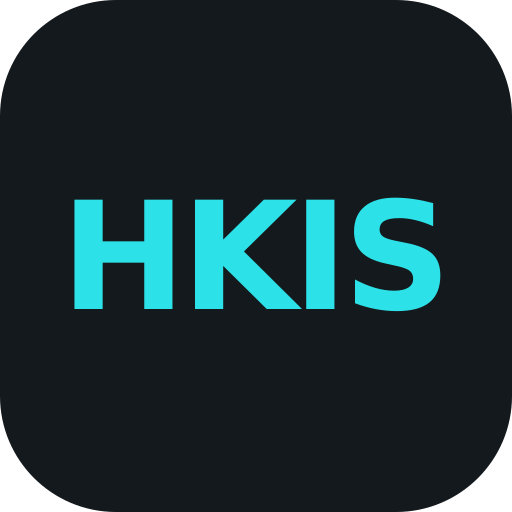
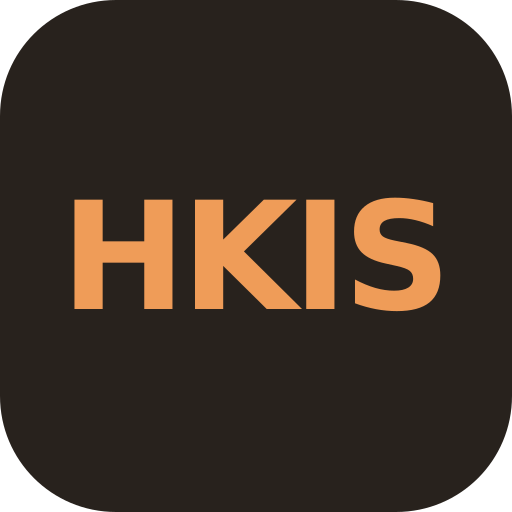
Refine HKIS warm paper theme and academic reading hierarchy

Changed region(s): [[0.375, 0.375, 0.6562, 0.625], [0.125, 0.375, 0.3438, 0.625], [0.6875, 0.375, 0.875, 0.625]]

diff --git a/apps/web/app/app.css b/apps/web/app/app.css
@@ -1,8 +1,8 @@
 @import "tailwindcss";
 
 /* ---------------------------------------------------------------------------
-   AIHOT design tokens — the look of the original site: warm off-white paper,
-   ink text, one teal accent (cyan in dark), hairline borders, no gradients.
+   HKIS reading tokens — warm paper, brown-black ink, and a burnt-orange accent.
+   Solid surface depth and warm charcoal dark mode; no decorative elevation.
    Components use the semantic names below; values change per theme only.
    --------------------------------------------------------------------------- */
 
@@ -11,14 +11,6 @@
 @theme {
   --font-sans: system-ui, -apple-system, BlinkMacSystemFont, "Segoe UI", "PingFang SC", "Hiragino Sans GB", "HarmonyOS Sans SC", "Microsoft YaHei", sans-serif;
   --font-mono: ui-monospace, SFMono-Regular, "SF Mono", Menlo, Monaco, Consolas, "Liberation Mono", monospace;
-
-  /* Brand (VI), fixed across themes. */
-  --color-brand-teal: #176b75;
-  --color-brand-cyan-0: #5deef0;
-  --color-brand-cyan-20: #2ce2e8;
-  --color-brand-cyan-54: #12ccd8;
-  --color-brand-cyan-82: #08abc2;
-  --color-brand-cyan-100: #078ea9;
 
   /* Semantic colours. */
   --color-bg: var(--bg);
@@ -95,39 +87,39 @@
   --page-max-wide: max(1200px, calc(270dvh - 236px));
   --page-max-reading: max(1100px, calc(200dvh - 236px));
   color-scheme: light;
-  --bg: #f2f4f0;
-  --bg-sunk: #edf1ec;
-  --bg-muted: #e5ebe6;
-  --surface: #ffffff;
-  --surface-2: #f6f8f4;
-  --raised: #ffffff;
-  --sidebar: #e7ede8;
-  --section: #e6eee8;
-  --inset: #f0f4ee;
-  --selected: #d6e8e3;
-  --daybar: #e6eee8;
-  --field: #ffffff;
-  --ink: #202a30;
-  --ink-2: #303c42;
-  --ink-3: #536168;
-  --ink-4: #59686e;
-  --line: #d5dfd8;
-  --line-strong: #d1d9d5;
-  --line-soft: #e3e9e3;
-  --accent: #176b75;
-  --accent-ink: #145f68;
-  --accent-soft: rgba(23, 107, 117, 0.08);
-  --accent-softer: rgba(23, 107, 117, 0.05);
+  --bg: #f7f1df;
+  --bg-sunk: #f0e7d0;
+  --bg-muted: #eee2cb;
+  --surface: #fffcf3;
+  --surface-2: #fbf5e6;
+  --raised: #fffdf6;
+  --sidebar: #eee4cc;
+  --section: #efe4c9;
+  --inset: #f4ecd9;
+  --selected: #f2ddc4;
+  --daybar: #efe4c9;
+  --field: #fffdf6;
+  --ink: #342b23;
+  --ink-2: #514439;
+  --ink-3: #6c5b4b;
+  --ink-4: #72604e;
+  --line: #ded0b5;
+  --line-strong: #c6b493;
+  --line-soft: #e8ddc6;
+  --accent: #a4470f;
+  --accent-ink: #913b0d;
+  --accent-soft: rgba(164, 71, 15, 0.09);
+  --accent-softer: rgba(164, 71, 15, 0.05);
   --accent-contrast: #ffffff;
-  --note: #526f72;
-  --hot: #b3402a;
-  --hot-soft: rgba(179, 64, 42, 0.08);
-  --amber: #b8873a;
-  --amber-ink: #7c5a24;
-  --amber-soft: rgba(184, 135, 58, 0.1);
-  --ok: #2f7d5c;
-  --ok-soft: rgba(47, 125, 92, 0.1);
-  --ok-ink: #2a6e51;
+  --note: #786245;
+  --hot: #ac343c;
+  --hot-soft: #fae8e3;
+  --amber: #9b7514;
+  --amber-ink: #86610a;
+  --amber-soft: #f4e7c2;
+  --ok: #387151;
+  --ok-soft: #e2eee3;
+  --ok-ink: #2d6547;
   /* Reset monitor: days mixed from the landed (green) and announced (amber) tones over the surface. */
   --cal-plain: rgba(28, 39, 51, 0.024);
   --cal-confirmed: color-mix(in srgb, var(--ok-ink) 12%, var(--surface));
@@ -135,68 +127,70 @@
   --cal-key-confirmed: color-mix(in srgb, var(--ok-ink) 30%, var(--surface));
   --cal-key-announced: color-mix(in srgb, var(--amber-ink) 30%, var(--surface));
   --panel-quiet: color-mix(in srgb, var(--bg) 48%, var(--surface));
-  --rank-1: #b3402a;
-  --rank-2: #a3642f;
-  --rank-3: #96702e;
-  --rank-rest: #6b7684;
+  --rank-1: #ac343c;
+  --rank-2: #946025;
+  --rank-3: #86610a;
+  --rank-rest: #72604e;
+  --control-line: #9b8a6b;
   --shadow-card: none;
   --shadow-card-hover: none;
   --shadow-soft: none;
   --shadow-thumb: none;
   --shadow-pop: none;
-  --prose-ink: #26323a;
-  --code-bg: #f6f7f4;
-  --selection: rgba(23, 107, 117, 0.16);
+  --prose-ink: #44372c;
+  --code-bg: #f0e7d0;
+  --selection: rgba(196, 104, 42, 0.22);
 }
 
 [data-theme="dark"] {
   color-scheme: dark;
-  --bg: #11191d;
-  --bg-sunk: #1e2c31;
-  --bg-muted: #27383d;
-  --surface: #1b282d;
-  --surface-2: #202e33;
-  --raised: #243339;
-  --sidebar: #162226;
-  --section: #26373c;
-  --inset: #202f34;
-  --selected: #21484d;
-  --daybar: #26373c;
-  --field: #142126;
-  --ink: #e7eceb;
-  --ink-2: #d2dada;
-  --ink-3: #b0bdc0;
-  --ink-4: #a2b1b6;
-  --line: rgba(255, 255, 255, 0.08);
-  --line-strong: rgba(255, 255, 255, 0.12);
-  --line-soft: rgba(255, 255, 255, 0.06);
-  --accent: #12ccd8;
-  --accent-ink: #2ce2e8;
-  --accent-soft: rgba(18, 204, 216, 0.12);
-  --accent-softer: rgba(18, 204, 216, 0.06);
-  --accent-contrast: #000000;
-  --note: #8fb8a8;
-  --hot: #d86a52;
-  --hot-soft: rgba(216, 106, 82, 0.12);
-  --amber: #d3b26a;
-  --amber-ink: #d3b26a;
-  --amber-soft: rgba(211, 178, 106, 0.12);
-  --ok: #5fc79a;
-  --ok-soft: rgba(95, 199, 154, 0.12);
-  --ok-ink: #7fd1ad;
+  --bg: #1b1815;
+  --bg-sunk: #251f19;
+  --bg-muted: #3b3027;
+  --surface: #28221d;
+  --surface-2: #2d261f;
+  --raised: #342b23;
+  --sidebar: #211c18;
+  --section: #332a22;
+  --inset: #30271f;
+  --selected: #493322;
+  --daybar: #332a22;
+  --field: #201b16;
+  --ink: #f3eadb;
+  --ink-2: #e3d5c0;
+  --ink-3: #c9b99f;
+  --ink-4: #bcaa90;
+  --line: #554638;
+  --line-strong: #7b6853;
+  --line-soft: #42372c;
+  --accent: #ef9c58;
+  --accent-ink: #ffb778;
+  --accent-soft: rgba(239, 156, 88, 0.13);
+  --accent-softer: rgba(239, 156, 88, 0.06);
+  --accent-contrast: #2b1a0d;
+  --note: #c4ad87;
+  --hot: #f1a4aa;
+  --hot-soft: #40272b;
+  --amber: #dcc17d;
+  --amber-ink: #e5ca85;
+  --amber-soft: #3d3420;
+  --ok: #92caa8;
+  --ok-soft: #24382c;
+  --ok-ink: #a1d2b4;
   --cal-plain: rgba(255, 255, 255, 0.03);
-  --rank-1: #d86a52;
-  --rank-2: #d18a5e;
-  --rank-3: #d3b26a;
-  --rank-rest: #7b869a;
+  --rank-1: #f1a4aa;
+  --rank-2: #e9b77e;
+  --rank-3: #dcc17d;
+  --rank-rest: #bcaa90;
+  --control-line: #a38d70;
   --shadow-card: none;
   --shadow-card-hover: none;
   --shadow-soft: none;
   --shadow-thumb: none;
   --shadow-pop: none;
-  --prose-ink: #d7dfdf;
-  --code-bg: #10151c;
-  --selection: rgba(18, 204, 216, 0.22);
+  --prose-ink: #e3d5c0;
+  --code-bg: #211b16;
+  --selection: rgba(239, 156, 88, 0.26);
 }
 
 @layer base {
@@ -584,7 +578,7 @@
 .ai-proposal p { overflow-wrap: anywhere; }
 .ai-dialog { position: fixed; inset: auto 24px 24px auto; margin: 0; padding: 0; width: 490px; max-width: calc(100vw - 32px); height: min(780px, calc(100dvh - 48px)); max-height: calc(100dvh - 32px); border: 1px solid var(--color-line, #d5dcd5); border-radius: 18px; background: var(--color-surface, #fff); color: var(--color-ink, #1e302c); box-shadow: none; overflow: hidden; }
 .ai-dialog[open] { display: flex; flex-direction: column; }
-.ai-dialog::backdrop { background: #0f241820; }
+.ai-dialog::backdrop { background: #24190f20; }
 .ai-header { display: flex; align-items: center; justify-content: space-between; padding: 17px 19px; border-bottom: 1px solid var(--color-line, #d5dcd5); flex-shrink: 0; }
 .ai-header h2 { font-size: 16px; font-weight: 700; }
 .ai-header p { margin-top: 3px; font-size: 11px; color: var(--color-ink-3, #63736c); }
@@ -623,10 +617,10 @@
 
 /* Search controls stay close to the logo, with separate mobile touch sizing. */
 .quick-search{display:flex;align-items:center;min-width:0;border:1px solid var(--color-line);background:var(--color-surface);border-radius:7px;margin:0 0 8px;overflow:hidden;flex-shrink:0}.quick-search input{min-width:0;width:100%;border:0;background:transparent;font-size:12px;padding:8px;color:var(--color-ink);outline:none}.quick-search button{display:grid;place-items:center;flex:0 0 32px;height:34px;color:var(--color-ink-3);cursor:pointer}.quick-search:focus-within{outline:2px solid var(--color-accent);outline-offset:2px}.quick-search-mobile{margin:10px 0 2px}.quick-search-mobile input{font-size:16px;padding:10px 12px}.quick-search-mobile button{flex-basis:44px;height:44px}@media(min-width:1024px){.quick-search-mobile{display:none}}
-.web-search-dialog{position:fixed;inset:0;margin:auto;width:680px;max-width:calc(100vw - 32px);max-height:calc(100dvh - 40px);padding:0;border:1px solid var(--color-line);border-radius:14px;background:var(--color-surface);color:var(--color-ink);box-shadow:none}.web-search-dialog[open]{display:flex;flex-direction:column}.web-search-dialog::backdrop{background:#0f241838}.web-search-header{display:flex;justify-content:space-between;align-items:center;padding:16px 20px 10px}.web-search-header h2{font-size:19px;font-weight:750;line-height:1.35}.web-search-header p{font-size:12px;color:var(--color-ink-3);margin-top:3px}.web-search-header button{width:44px;height:44px;font-size:26px;cursor:pointer}.web-search-form{display:flex;gap:8px;padding:0 20px}.web-search-form input{width:100%;min-width:0;font-size:16px;min-height:44px;padding:8px 11px;border:1px solid var(--color-line);border-radius:7px;background:var(--color-bg);color:inherit}.web-search-policy{font-size:12px;line-height:1.6;color:var(--color-ink-3);margin:10px 20px 14px}.web-search-body{min-height:100px;overflow:auto;padding:0 20px 20px;overscroll-behavior:contain}.web-search-body>.web-search-policy{margin:16px 0 0}.web-result{padding:14px 0;border-bottom:1px solid var(--color-line-soft);overflow-wrap:anywhere}.web-result h3{font-size:16px;font-weight:650;line-height:1.45}.web-result h3 a{color:var(--color-accent)}.web-result h3 a:hover{text-decoration:underline}.web-source{font-size:12px;line-height:1.5;color:var(--color-ink-3);margin-top:4px}.web-snippet{font-size:14px;line-height:1.65;margin-top:7px;color:var(--color-ink-2)}.web-empty{font-size:14px;line-height:1.6;padding:24px 0}.web-search-dialog :is(button,input,a):focus-visible{outline:2px solid var(--color-accent);outline-offset:3px}.anysearch-settings{border-top:1px solid var(--color-line);scroll-margin-top:20px}.anysearch-settings>.ai-error,.anysearch-settings>.research-notice{margin:12px}.ai-message .web-result h3{font-size:14px}.ai-message .web-snippet{font-size:13px}
+.web-search-dialog{position:fixed;inset:0;margin:auto;width:680px;max-width:calc(100vw - 32px);max-height:calc(100dvh - 40px);padding:0;border:1px solid var(--color-line);border-radius:14px;background:var(--color-surface);color:var(--color-ink);box-shadow:none}.web-search-dialog[open]{display:flex;flex-direction:column}.web-search-dialog::backdrop{background:#24190f38}.web-search-header{display:flex;justify-content:space-between;align-items:center;padding:16px 20px 10px}.web-search-header h2{font-size:19px;font-weight:750;line-height:1.35}.web-search-header p{font-size:12px;color:var(--color-ink-3);margin-top:3px}.web-search-header button{width:44px;height:44px;font-size:26px;cursor:pointer}.web-search-form{display:flex;gap:8px;padding:0 20px}.web-search-form input{width:100%;min-width:0;font-size:16px;min-height:44px;padding:8px 11px;border:1px solid var(--color-line);border-radius:7px;background:var(--color-bg);color:inherit}.web-search-policy{font-size:12px;line-height:1.6;color:var(--color-ink-3);margin:10px 20px 14px}.web-search-body{min-height:100px;overflow:auto;padding:0 20px 20px;overscroll-behavior:contain}.web-search-body>.web-search-policy{margin:16px 0 0}.web-result{padding:14px 0;border-bottom:1px solid var(--color-line-soft);overflow-wrap:anywhere}.web-result h3{font-size:16px;font-weight:650;line-height:1.45}.web-result h3 a{color:var(--color-accent)}.web-result h3 a:hover{text-decoration:underline}.web-source{font-size:13px;line-height:1.5;color:var(--color-ink-3);margin-top:4px}.web-snippet{font-size:15px;line-height:1.75;margin-top:7px;color:var(--color-ink-2)}.web-empty{font-size:14px;line-height:1.6;padding:24px 0}.web-search-dialog :is(button,input,a):focus-visible{outline:2px solid var(--color-accent);outline-offset:3px}.anysearch-settings{border-top:1px solid var(--color-line);scroll-margin-top:20px}.anysearch-settings>.ai-error,.anysearch-settings>.research-notice{margin:12px}.ai-message .web-result h3{font-size:14px}.ai-message .web-snippet{font-size:13px}
 /* Reading rhythm: clear titles, quieter metadata, and compact readable summaries. */
-.research-heading{margin-bottom:1rem}.research-list{gap:.75rem}.research-card{padding:1rem 1.1rem}.research-card h2{font-size:1.08rem;line-height:1.45;font-weight:700;margin:.45rem 0}.research-card-top{font-size:.76rem;line-height:1.5;gap:.6rem}.research-card-top strong{font-size:1.1rem}.research-authors{font-size:.8rem;line-height:1.5;margin:.35rem 0}.research-abstract{font-size:.9rem;line-height:1.65}.research-tags{gap:.3rem;margin-top:.6rem}.research-card-bottom{font-size:.76rem;line-height:1.5;margin-top:.7rem}.progress-dates{font-size:.75rem;margin:.4rem 0 .65rem;line-height:1.5}.progress-provenance{font-size:.8rem;margin-top:.65rem}.progress-provenance p{margin:.35rem 0;line-height:1.6}.research-panel p{line-height:1.65}.research-full-abstract{font-size:.95rem;line-height:1.8}.daily-topic-grid{gap:.75rem}.service-row-heading{padding:13px 16px}.service-row-heading strong{font-size:.95rem}.service-endpoint,.service-key-status{font-size:.8rem;line-height:1.5}.changelog-body{font-size:13px;line-height:1.65}.changelog-body>p+p{margin-top:6px}.changelog-toggle{display:flex;align-items:flex-start;justify-content:space-between;gap:14px;width:100%;text-align:left;cursor:pointer;border-radius:4px}.changelog-toggle:focus-visible{outline:2px solid var(--color-accent);outline-offset:4px}.changelog-chevron{font-size:14px;line-height:1.8;font-weight:400;color:var(--color-ink-3);white-space:nowrap}.changelog-content[hidden]{display:none}@media(max-width:640px){.research-card{padding:.95rem}.research-card h2{font-size:1.06rem}.research-card-bottom a,.progress-ai{display:inline-flex;align-items:center;min-height:36px}.changelog-toggle{min-height:44px;align-items:center}.web-search-dialog{max-width:calc(100vw - 16px);max-height:calc(100dvh - 16px)}.web-search-header{padding:12px 14px 9px}.web-search-form{padding:0 14px}.web-search-policy{margin-left:14px;margin-right:14px}.web-search-body{padding:0 14px 16px}.service-row-actions button{min-height:40px}}
-.weekly-jump{margin:1rem 0 1.3rem;padding:.65rem 0}.weekly-section{margin-top:1.5rem}.weekly-intro{font-size:.875rem;line-height:1.65;margin:.5rem 0 .9rem}.weekly-groups{gap:.75rem}.weekly-group-summary{font-size:.9rem;line-height:1.65;margin:.45rem 0}.weekly-evidence{margin:.75rem 0 0}.weekly-evidence li{padding:.6rem 0}.weekly-evidence li p{font-size:.9rem;line-height:1.7}.weekly-journal{font-size:.82rem}.weekly-meta{font-size:.76rem;line-height:1.5}.weekly-breakdown{gap:.45rem;font-size:.9rem}.weekly-breakdown dt{font-size:.8rem}.weekly-breakdown dd{line-height:1.7}.weekly-links{font-size:.8rem;margin-top:.8rem}
+.research-heading{margin-bottom:1rem}.research-list{gap:.75rem}.research-card{padding:1rem 1.1rem}.research-card h2{font-size:1.125rem;line-height:1.5;font-weight:650;margin:.5rem 0;max-width:86ch;overflow-wrap:anywhere}.research-card-top{font-size:.8125rem;line-height:1.6;gap:.6rem}.research-card-top strong{font-size:1.1rem}.research-authors{font-size:.8125rem;line-height:1.65;margin:.4rem 0}.research-abstract{font-size:.96875rem;line-height:1.75;max-width:94ch}.research-tags{gap:.3rem;margin-top:.6rem}.research-card-bottom{font-size:.8125rem;line-height:1.6;margin-top:.8rem}.progress-dates{font-size:.8125rem;margin:.4rem 0 .75rem;line-height:1.65}.progress-provenance{font-size:.8rem;margin-top:.65rem}.progress-provenance p{margin:.35rem 0;line-height:1.6}.research-panel p{line-height:1.65}.research-full-abstract{font-size:1.0625rem;line-height:1.85;max-width:78ch;overflow-wrap:anywhere}.daily-topic-grid{gap:.75rem}.service-row-heading{padding:13px 16px}.service-row-heading strong{font-size:.95rem}.service-endpoint,.service-key-status{font-size:.8rem;line-height:1.5}.changelog-body{font-size:13px;line-height:1.65}.changelog-body>p+p{margin-top:6px}.changelog-toggle{display:flex;align-items:flex-start;justify-content:space-between;gap:14px;width:100%;text-align:left;cursor:pointer;border-radius:4px}.changelog-toggle:focus-visible{outline:2px solid var(--color-accent);outline-offset:4px}.changelog-chevron{font-size:14px;line-height:1.8;font-weight:400;color:var(--color-ink-3);white-space:nowrap}.changelog-content[hidden]{display:none}@media(max-width:640px){.research-card{padding:.95rem}.research-card h2{font-size:1.0625rem;line-height:1.55}.research-card-bottom a,.progress-ai{display:inline-flex;align-items:center;min-height:36px}.changelog-toggle{min-height:44px;align-items:center}.web-search-dialog{max-width:calc(100vw - 16px);max-height:calc(100dvh - 16px)}.web-search-header{padding:12px 14px 9px}.web-search-form{padding:0 14px}.web-search-policy{margin-left:14px;margin-right:14px}.web-search-body{padding:0 14px 16px}.service-row-actions button{min-height:40px}}
+.weekly-jump{margin:1rem 0 1.3rem;padding:.65rem 0}.weekly-section{margin-top:1.5rem}.weekly-intro{font-size:.875rem;line-height:1.65;margin:.5rem 0 .9rem}.weekly-groups{gap:.75rem}.weekly-group-summary{font-size:.96875rem;line-height:1.8;margin:.5rem 0;max-width:86ch}.weekly-evidence{margin:.75rem 0 0}.weekly-evidence li{padding:.6rem 0}.weekly-evidence li p{font-size:.96875rem;line-height:1.8;max-width:88ch}.weekly-journal{font-size:.82rem}.weekly-meta{font-size:.8125rem;line-height:1.6}.weekly-breakdown{gap:.65rem;font-size:.96875rem;color:var(--ink-2)}.weekly-breakdown dt{font-size:.8rem}.weekly-breakdown dd{line-height:1.8;max-width:86ch}.weekly-links{font-size:.8125rem;margin-top:.9rem}
 
 /* HKIS reading hierarchy: solid surfaces, quiet controls, distinct evidence, no elevation. */
 .research-stats{background:var(--section);border-color:transparent}
@@ -714,8 +708,43 @@
 
 @media(max-width:640px){.calendar-controls input,.calendar-controls select{font-size:16px}.calendar-controls input{width:76px}.calendar-controls select{width:73px}}
 
+/* Academic reading rhythm keeps evidence primary and controls compact. */
+.research-heading h1{font-weight:700;letter-spacing:-.02em}
+.research-eyebrow{color:var(--accent-ink);letter-spacing:.09em}
+.research-card-top strong{font-weight:650;color:var(--ink-2)}
+.research-tags span{font-size:.75rem;line-height:1.5}
+.progress-kind{color:var(--ink-3);font-size:.8125rem}
+.weekly-journal{font-weight:500}.weekly-breakdown dt{font-size:.8125rem;font-weight:600}
+.research-filters label{font-size:.8125rem;color:var(--ink-2)}
+.research-filters input,.research-filters select,.ai-form input:not([type=checkbox]),.ai-form textarea,.ai-form select,.ai-composer textarea,.web-search-form input,.quick-search{border-color:var(--control-line)}
+.research-filters input,.research-filters select{color:var(--ink);font-weight:400}
+.research-detail{max-width:960px;margin-inline:auto}
+.research-detail .research-heading{margin-top:1rem}
+.research-detail h1{font-size:clamp(1.5rem,2.6vw,2rem);line-height:1.45;max-width:48ch;overflow-wrap:anywhere}
+.research-detail>p{font-size:.875rem;color:var(--ink-3);overflow-wrap:anywhere}
+.research-detail>section>p:not(.research-field-source){max-width:78ch;line-height:1.85}
+.research-detail>section>p+p{margin-top:.85rem}
+.research-detail .research-field-source{font-size:.8125rem;line-height:1.65}
+.research-detail .research-author-list{max-width:78ch}
+.research-empty h2,.research-empty h3{font-size:1.0625rem;line-height:1.5;font-weight:650;color:var(--ink)}
+.research-empty p{font-size:.875rem;line-height:1.8;color:var(--ink-3);max-width:72ch;margin-top:.5rem}
+.research-empty>a{display:inline-flex;align-items:center;min-height:36px;margin-top:.35rem;font-size:.875rem}
+.research-notice{font-size:.875rem;line-height:1.8;color:var(--ink-2)}
+.service-key-status{color:var(--ink-3)}
+.ai-form input:not([type=checkbox]),.ai-form textarea,.ai-form select{font-weight:400;line-height:1.65}
+.ai-message{font-size:14px;line-height:1.85}.ai-empty,.ai-prompts{font-size:13px}
+.ai-error{color:var(--hot);background:var(--hot-soft);border:1px solid var(--hot);font-size:13px;line-height:1.75}
+.scholarly-field.is-conflict{border-inline-start-color:var(--amber)}
+.web-result h3{line-height:1.55}.web-search-policy{font-size:13px;line-height:1.7}
+.daily-digest-layout>aside .research-panel h2{font-size:.9375rem;font-weight:650;line-height:1.6}
+.daily-digest-layout>aside .research-panel p{font-size:.8125rem;line-height:1.75;color:var(--ink-3)}
+.daily-progress-paragraph{max-width:78ch;text-align:start}
+.daily-source-paper h4{font-weight:650;color:var(--ink);max-width:86ch}
+.daily-source-paper>a{font-size:.8125rem;color:var(--accent-ink);text-decoration:underline;text-underline-offset:3px}
+@media(max-width:640px){.research-full-abstract{font-size:1rem;line-height:1.85}.research-detail h1{font-size:1.5rem}.research-filters input,.research-filters select,.ai-form input:not([type=checkbox]),.ai-form textarea,.ai-form select{font-size:16px}.research-abstract{font-size:.9375rem;line-height:1.75}.research-empty>a{min-height:44px}}
+
 /* Personal reading state: quieter surface/metadata, intact titles and saved markers. */
-.paper-reader-card{position:relative}.paper-card-controls{display:flex;align-items:center;gap:.7rem;margin:-.15rem 0 .45rem;min-height:32px;font-size:.76rem;color:var(--ink-3)}.paper-favorite{display:inline-flex;align-items:center;justify-content:center;gap:.35rem;min-height:36px;margin-left:auto;padding:.3rem .65rem;border:1px solid var(--line);border-radius:6px;background:var(--surface);color:var(--ink-3);font-size:.76rem;white-space:nowrap;cursor:pointer}.paper-favorite.is-favorite{background:var(--selected);color:var(--accent-ink);border-color:var(--accent)}.paper-favorite.is-favorite svg{fill:currentColor}.paper-favorite:disabled{cursor:wait}.paper-select,.paper-bulk label{display:inline-flex;align-items:center;gap:.4rem;cursor:pointer;min-height:36px}.paper-select input,.paper-bulk input{width:17px;height:17px;accent-color:var(--accent)}.paper-read-label{color:var(--ink-3);font-size:.74rem}.paper-reader-card.is-read{background:var(--inset);border-color:var(--line-soft)}.paper-reader-card.is-read :is(.research-authors,.research-card-top,.research-card-bottom,.progress-dates,.weekly-meta,.weekly-journal,.research-abstract,.weekly-breakdown,.progress-provenance){color:var(--ink-3)}.paper-reader-card.is-read :is(h2,h3){color:var(--ink-2)}.paper-reader-card.is-read :is(h2,h3) a{color:inherit}.paper-reader-card.is-read .paper-favorite.is-favorite{color:var(--accent-ink);background:var(--selected)}.paper-bulk{display:flex;flex-wrap:wrap;align-items:center;gap:.55rem .85rem;padding:.7rem .85rem;margin:.75rem 0;background:var(--section);border:1px solid var(--line-soft);border-radius:8px;font-size:.8rem;color:var(--ink-2)}.paper-bulk p{flex-basis:100%;font-size:.74rem;color:var(--ink-3);margin:0}.paper-bulk>a{margin-left:auto;color:var(--accent-ink)}.paper-text-button{color:var(--accent-ink);text-decoration:underline;text-underline-offset:3px;min-height:36px;cursor:pointer}.paper-text-button:disabled,.paper-bulk button:disabled{cursor:not-allowed;color:var(--ink-3)}.paper-detail-state{display:flex;align-items:center;gap:1rem;flex-wrap:wrap;margin:.8rem 0;font-size:.8rem}.paper-detail-state .paper-favorite{margin-left:0}.paper-reader-error{position:fixed;bottom:90px;left:50%;transform:translateX(-50%);z-index:80;display:flex;align-items:center;gap:12px;width:max-content;max-width:calc(100vw - 24px);padding:12px 16px;border:1px solid var(--line-strong);border-radius:8px;background:var(--surface);color:var(--ink);font-size:.8rem}.paper-reader-error button{min-width:30px;min-height:36px;color:var(--accent-ink);cursor:pointer}.paper-reader-error span{max-width:50ch}.paper-favorites{padding-bottom:1rem}.paper-favorites .research-abstract{display:-webkit-box;-webkit-line-clamp:3;-webkit-box-orient:vertical;overflow:hidden}.paper-reader-card :is(button,input,a):focus-visible,.paper-bulk :is(button,input,a):focus-visible,.paper-detail-state button:focus-visible{outline:2px solid var(--accent);outline-offset:3px}@media(max-width:640px){.paper-bulk{gap:.4rem .7rem}.paper-bulk label{flex-basis:100%}.paper-bulk button,.paper-favorite,.paper-select{min-height:44px}.paper-bulk>a{margin-left:0}.paper-reader-error{bottom:82px;align-items:flex-start}.paper-reader-error span{max-width:calc(100vw - 145px)}}
+.paper-reader-card{position:relative}.paper-card-controls{display:flex;align-items:center;gap:.7rem;margin:-.15rem 0 .45rem;min-height:32px;font-size:.76rem;color:var(--ink-3)}.paper-favorite{display:inline-flex;align-items:center;justify-content:center;gap:.35rem;min-height:36px;margin-left:auto;padding:.3rem .65rem;border:1px solid var(--line);border-radius:6px;background:var(--surface);color:var(--ink-3);font-size:.76rem;white-space:nowrap;cursor:pointer}.paper-favorite.is-favorite{background:var(--selected);color:var(--accent-ink);border-color:var(--accent);font-weight:600}.paper-favorite.is-favorite svg{fill:currentColor}.paper-favorite:disabled{cursor:wait}.paper-select,.paper-bulk label{display:inline-flex;align-items:center;gap:.4rem;cursor:pointer;min-height:36px}.paper-select input,.paper-bulk input{width:17px;height:17px;accent-color:var(--accent)}.paper-read-label{color:var(--ink-3);font-size:.8125rem;padding:.1rem .4rem;background:var(--surface-2);border:1px solid var(--line);border-radius:4px}.paper-reader-card.is-read{background:var(--inset);border-color:var(--line-soft)}.paper-reader-card.is-read :is(.research-authors,.research-card-top,.research-card-bottom,.progress-dates,.weekly-meta,.weekly-journal,.research-abstract,.weekly-breakdown,.progress-provenance){color:var(--ink-3)}.paper-reader-card.is-read :is(h2,h3,h4){color:var(--ink-2)}.paper-reader-card.is-read :is(h2,h3,h4) a{color:inherit}.paper-reader-card.is-read .paper-favorite.is-favorite{color:var(--accent-ink);background:var(--selected)}.paper-bulk{display:flex;flex-wrap:wrap;align-items:center;gap:.55rem .85rem;padding:.7rem .85rem;margin:.75rem 0;background:var(--section);border:1px solid var(--line-soft);border-radius:8px;font-size:.8rem;color:var(--ink-2)}.paper-bulk p{flex-basis:100%;font-size:.74rem;color:var(--ink-3);margin:0}.paper-bulk>a{margin-left:auto;color:var(--accent-ink)}.paper-text-button{color:var(--accent-ink);text-decoration:underline;text-underline-offset:3px;min-height:36px;cursor:pointer}.paper-text-button:disabled,.paper-bulk button:disabled{cursor:not-allowed;color:var(--ink-3)}.paper-detail-state{display:flex;align-items:center;gap:1rem;flex-wrap:wrap;margin:.8rem 0;font-size:.8rem}.paper-detail-state .paper-favorite{margin-left:0}.paper-reader-error{position:fixed;bottom:90px;left:50%;transform:translateX(-50%);z-index:80;display:flex;align-items:center;gap:12px;width:max-content;max-width:calc(100vw - 24px);padding:12px 16px;border:1px solid var(--line-strong);border-radius:8px;background:var(--surface);color:var(--ink);font-size:.8rem}.paper-reader-error button{min-width:30px;min-height:36px;color:var(--accent-ink);cursor:pointer}.paper-reader-error span{max-width:50ch}.paper-favorites{padding-bottom:1rem}.paper-favorites .research-abstract{display:-webkit-box;-webkit-line-clamp:3;-webkit-box-orient:vertical;overflow:hidden}.paper-reader-card :is(button,input,a):focus-visible,.paper-bulk :is(button,input,a):focus-visible,.paper-detail-state button:focus-visible{outline:2px solid var(--accent);outline-offset:3px}@media(max-width:640px){.paper-bulk{gap:.4rem .7rem}.paper-bulk label{flex-basis:100%}.paper-bulk button,.paper-favorite,.paper-select{min-height:44px}.paper-bulk>a{margin-left:0}.paper-reader-error{bottom:82px;align-items:flex-start}.paper-reader-error span{max-width:calc(100vw - 145px)}}
 
 /* One immutable AI report at a time; colors inherit the shared reading surfaces. */
 .daily-digest-layout{display:grid;grid-template-columns:minmax(230px,280px) minmax(0,1fr);gap:1.5rem;align-items:start}

diff --git a/apps/web/app/root.tsx b/apps/web/app/root.tsx
@@ -47,8 +47,8 @@ export function Layout({ children }: { children: React.ReactNode }) {
       <head>
         <meta charSet="utf-8" />
         <meta name="viewport" content="width=device-width, initial-scale=1, viewport-fit=cover" />
-        <meta name="theme-color" media="(prefers-color-scheme: light)" content="#faf9f6" />
-        <meta name="theme-color" media="(prefers-color-scheme: dark)" content="#13191c" />
+        <meta name="theme-color" media="(prefers-color-scheme: light)" content="#f7f1df" />
+        <meta name="theme-color" media="(prefers-color-scheme: dark)" content="#1b1815" />
         <script dangerouslySetInnerHTML={{ __html: THEME_BOOT_SCRIPT }} />
         <Meta />
         <Links />

diff --git a/docs/reading-design.md b/docs/reading-design.md
@@ -1,0 +1,25 @@
+# HKIS 纸张阅读主题
+
+2026-10-02 的阅读优化沿用已有信息结构、收藏/已读和日报归档，集中调整配色与文本阅读。
+
+## 颜色与层级
+
+- 浅色画布 `#f7f1df`，正文阅读面 `#fffcf3`，导航及栏目以米黄色相对色深区分；正文暖棕黑，主操作与选中采用暖橙。
+- 深色采用暖炭色画布与纸墨层级，橙色只保留给操作和选中；错误为红色、警告为赭黄、成功为绿色。
+- 全站保持无装饰阴影、无渐变。输入框使用独立边界色，键盘焦点采用 outline。
+- 站点原有 HKIS 矢量标识仅换色，应用图标从同一矢量重新导出。
+
+## 文字阅读
+
+- 论文列表标题约 17–18px、650 字重、1.5–1.55 行高；摘要约 15–15.5px、1.75 行高，限制过长行宽。
+- 详情摘要 16–17px、1.85 行高、最多 78ch；正文与元信息分层，段落间隔独立。长英文题名、DOI 与中英混排允许正常换行。
+- 日报段落保留既有结构与引用，在阅读宽度内排版；空状态标题补足字重和正文间距。
+- 已读卡片不使用整体透明度，标题/正文维持对比度；收藏保留书签、文字、边界与选中底色。日报引用 h4 同样有已读层级。
+- 保留窄侧栏、Logo 下检索、底部 Agent、月历与更新日志折叠。未修改业务行为。
+
+## 验证边界
+
+- 真实站点先查看论文库、进展、日报月历、收藏空态、设置与更新日志，再检查修改后的桌面和手机宽度、浅/深色。
+- 为避免改变个人阅读记录，线上视觉检查不打开论文详情、不收藏或批量更改状态；详情、已读/收藏组合、已生成日报和搜索结果使用隔离样例与组件/Worker 测试。云浏览器不允许访问本地预览地址，因此这些样例没有逐像素浏览器验证；样例不会进入线上数据库。
+- 线上检查不提交模型、联网搜索或采集请求。当前归档内容以真实数据库为准，空态不能当成已生成日报。
+- 共享测试覆盖正文/次级文字/链接在 11 种实色表面上的 4.5:1 对比度，主按钮 4.5:1，表单边界 3:1，以及错误/警告/成功语义对比度；不能据此宣称整站完全符合所有 WCAG 要求。
